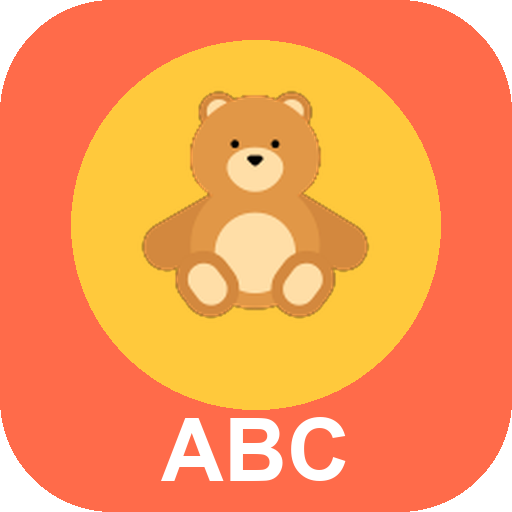
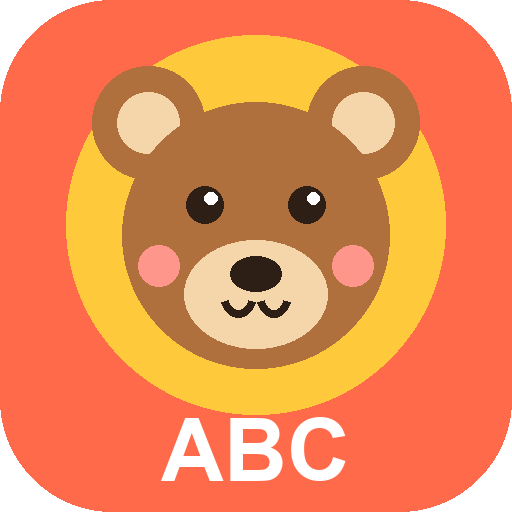
앱 아이콘을 직접 그린 곰으로 교체

diff --git a/sw.js b/sw.js
@@ -1,5 +1,5 @@
 // 우리집 영어 오프라인 저장: 앱 파일과 글꼴을 휴대폰에 저장해 인터넷 없이도 열리게 한다.
-const CACHE = "uri-english-20261121235351";
+const CACHE = "uri-english-20261124114333";
 const FILES = ["./", "index.html", "kid.html", "phrasal.html", "manifest.webmanifest", "icon-192.png", "icon-512.png", "icon-maskable.png", "apple-touch-icon.png"];
 
 self.addEventListener("install", e => {
